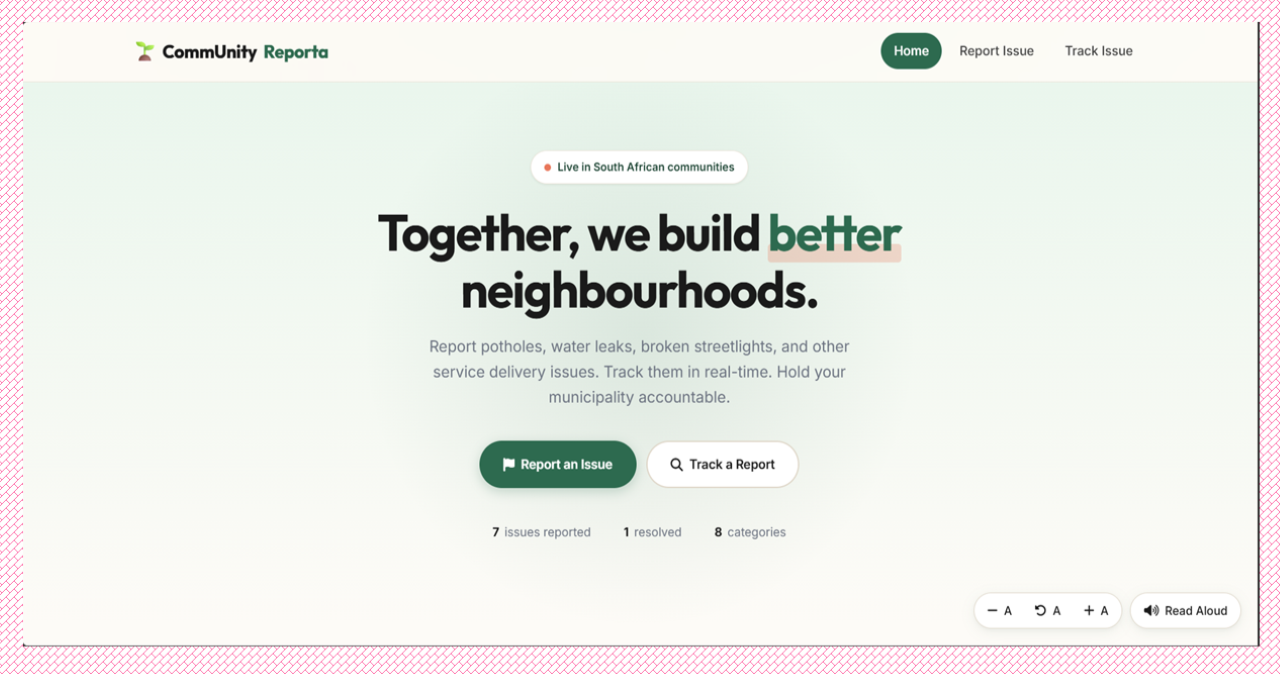
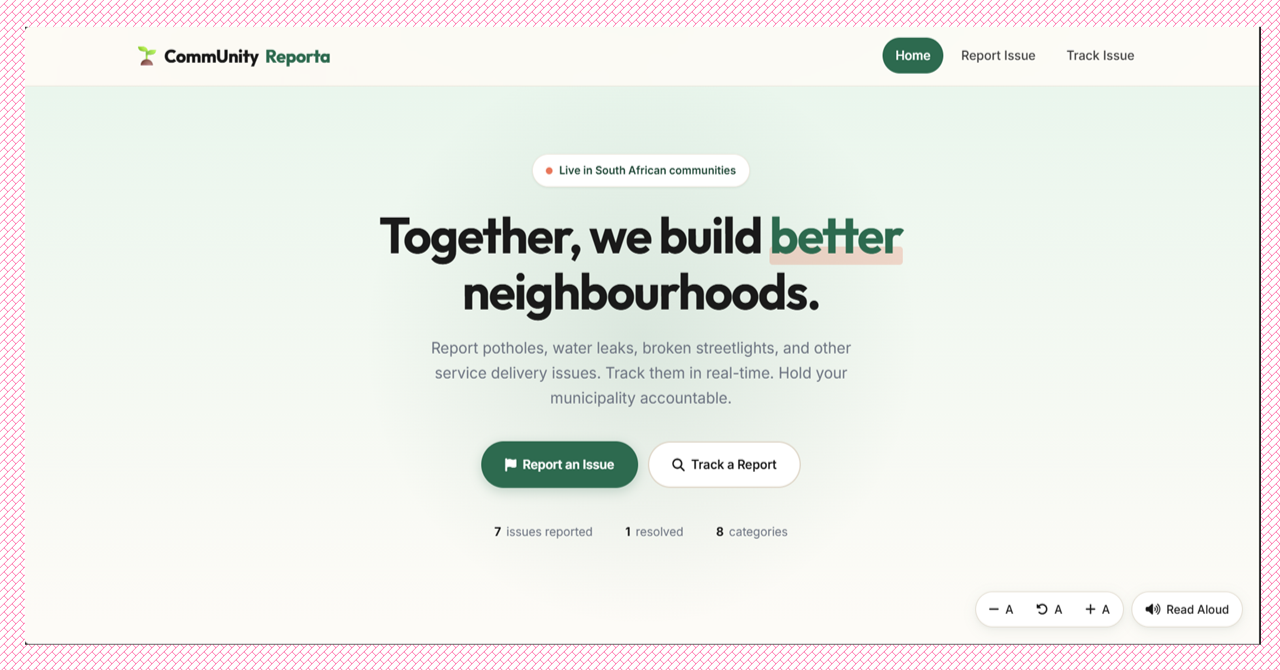
Fix images size and display

diff --git a/lib/content.ts b/lib/content.ts
@@ -141,8 +141,8 @@ export const projects: Project[] = [
     live: "https://recall-three-iota.vercel.app/",
     image: {
       src: "/images/recall.png",
-      width: 1895,
-      height: 902,
+      width: 1280,
+      height: 680,
       alt: "The Recall landing page, with a headline about turning notes into mastery and three steps for creating flashcards.",
     },
     accent: "sun",
@@ -235,8 +235,8 @@ export const projects: Project[] = [
     live: "https://community-reporta.vercel.app/",
     image: {
       src: "/images/community-reporta.png",
-      width: 1891,
-      height: 914,
+      width: 1280,
+      height: 680,
       alt: "The Community Reporta home page, with buttons to report an issue or track a report.",
     },
     accent: "brick",

diff --git a/app/layout.tsx b/app/layout.tsx
@@ -36,7 +36,11 @@ export const viewport: Viewport = {
 
 export default function RootLayout({ children }: LayoutProps<"/">) {
   return (
-    <html lang="en" className={`${bricolage.variable} ${caveat.variable}`}>
+    <html
+      lang="en"
+      data-scroll-behavior="smooth"
+      className={`${bricolage.variable} ${caveat.variable}`}
+    >
       <body suppressHydrationWarning>{children}</body>
     </html>
   );

diff --git a/app/globals.css b/app/globals.css
@@ -36,6 +36,7 @@
 
 html {
   scroll-padding-top: 5rem;
+
 }
 
 @media (prefers-reduced-motion: no-preference) {
